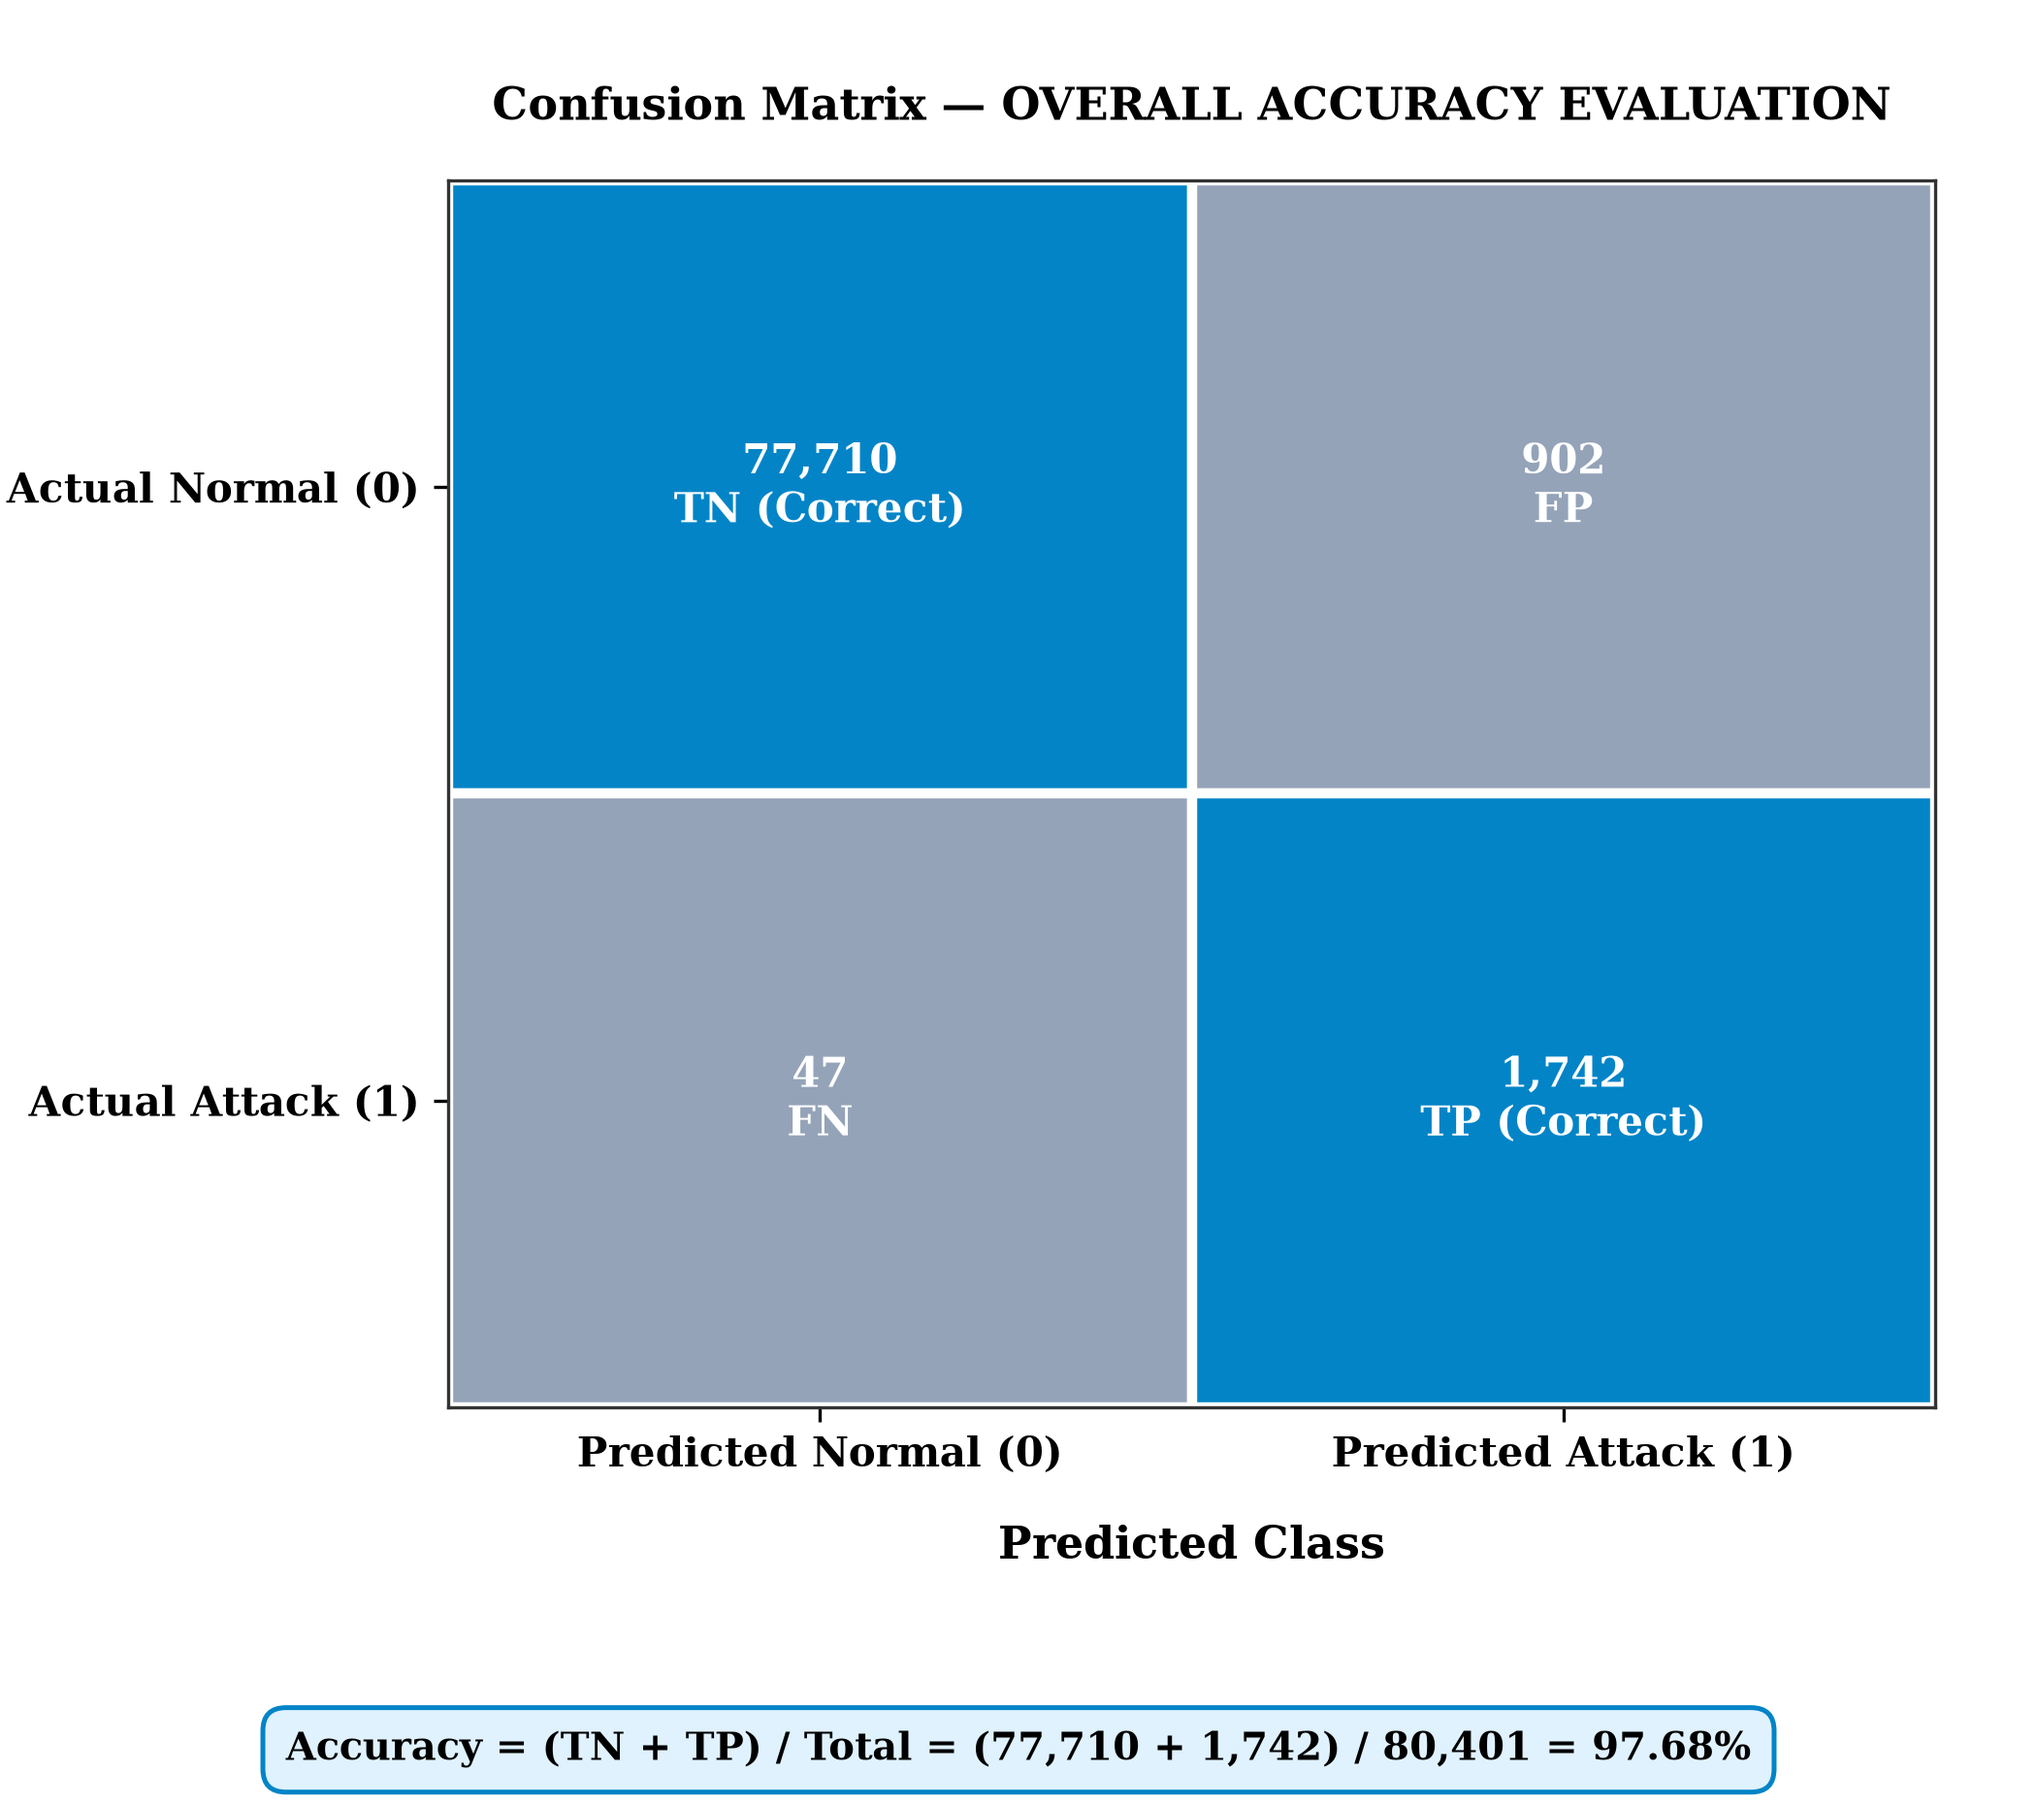
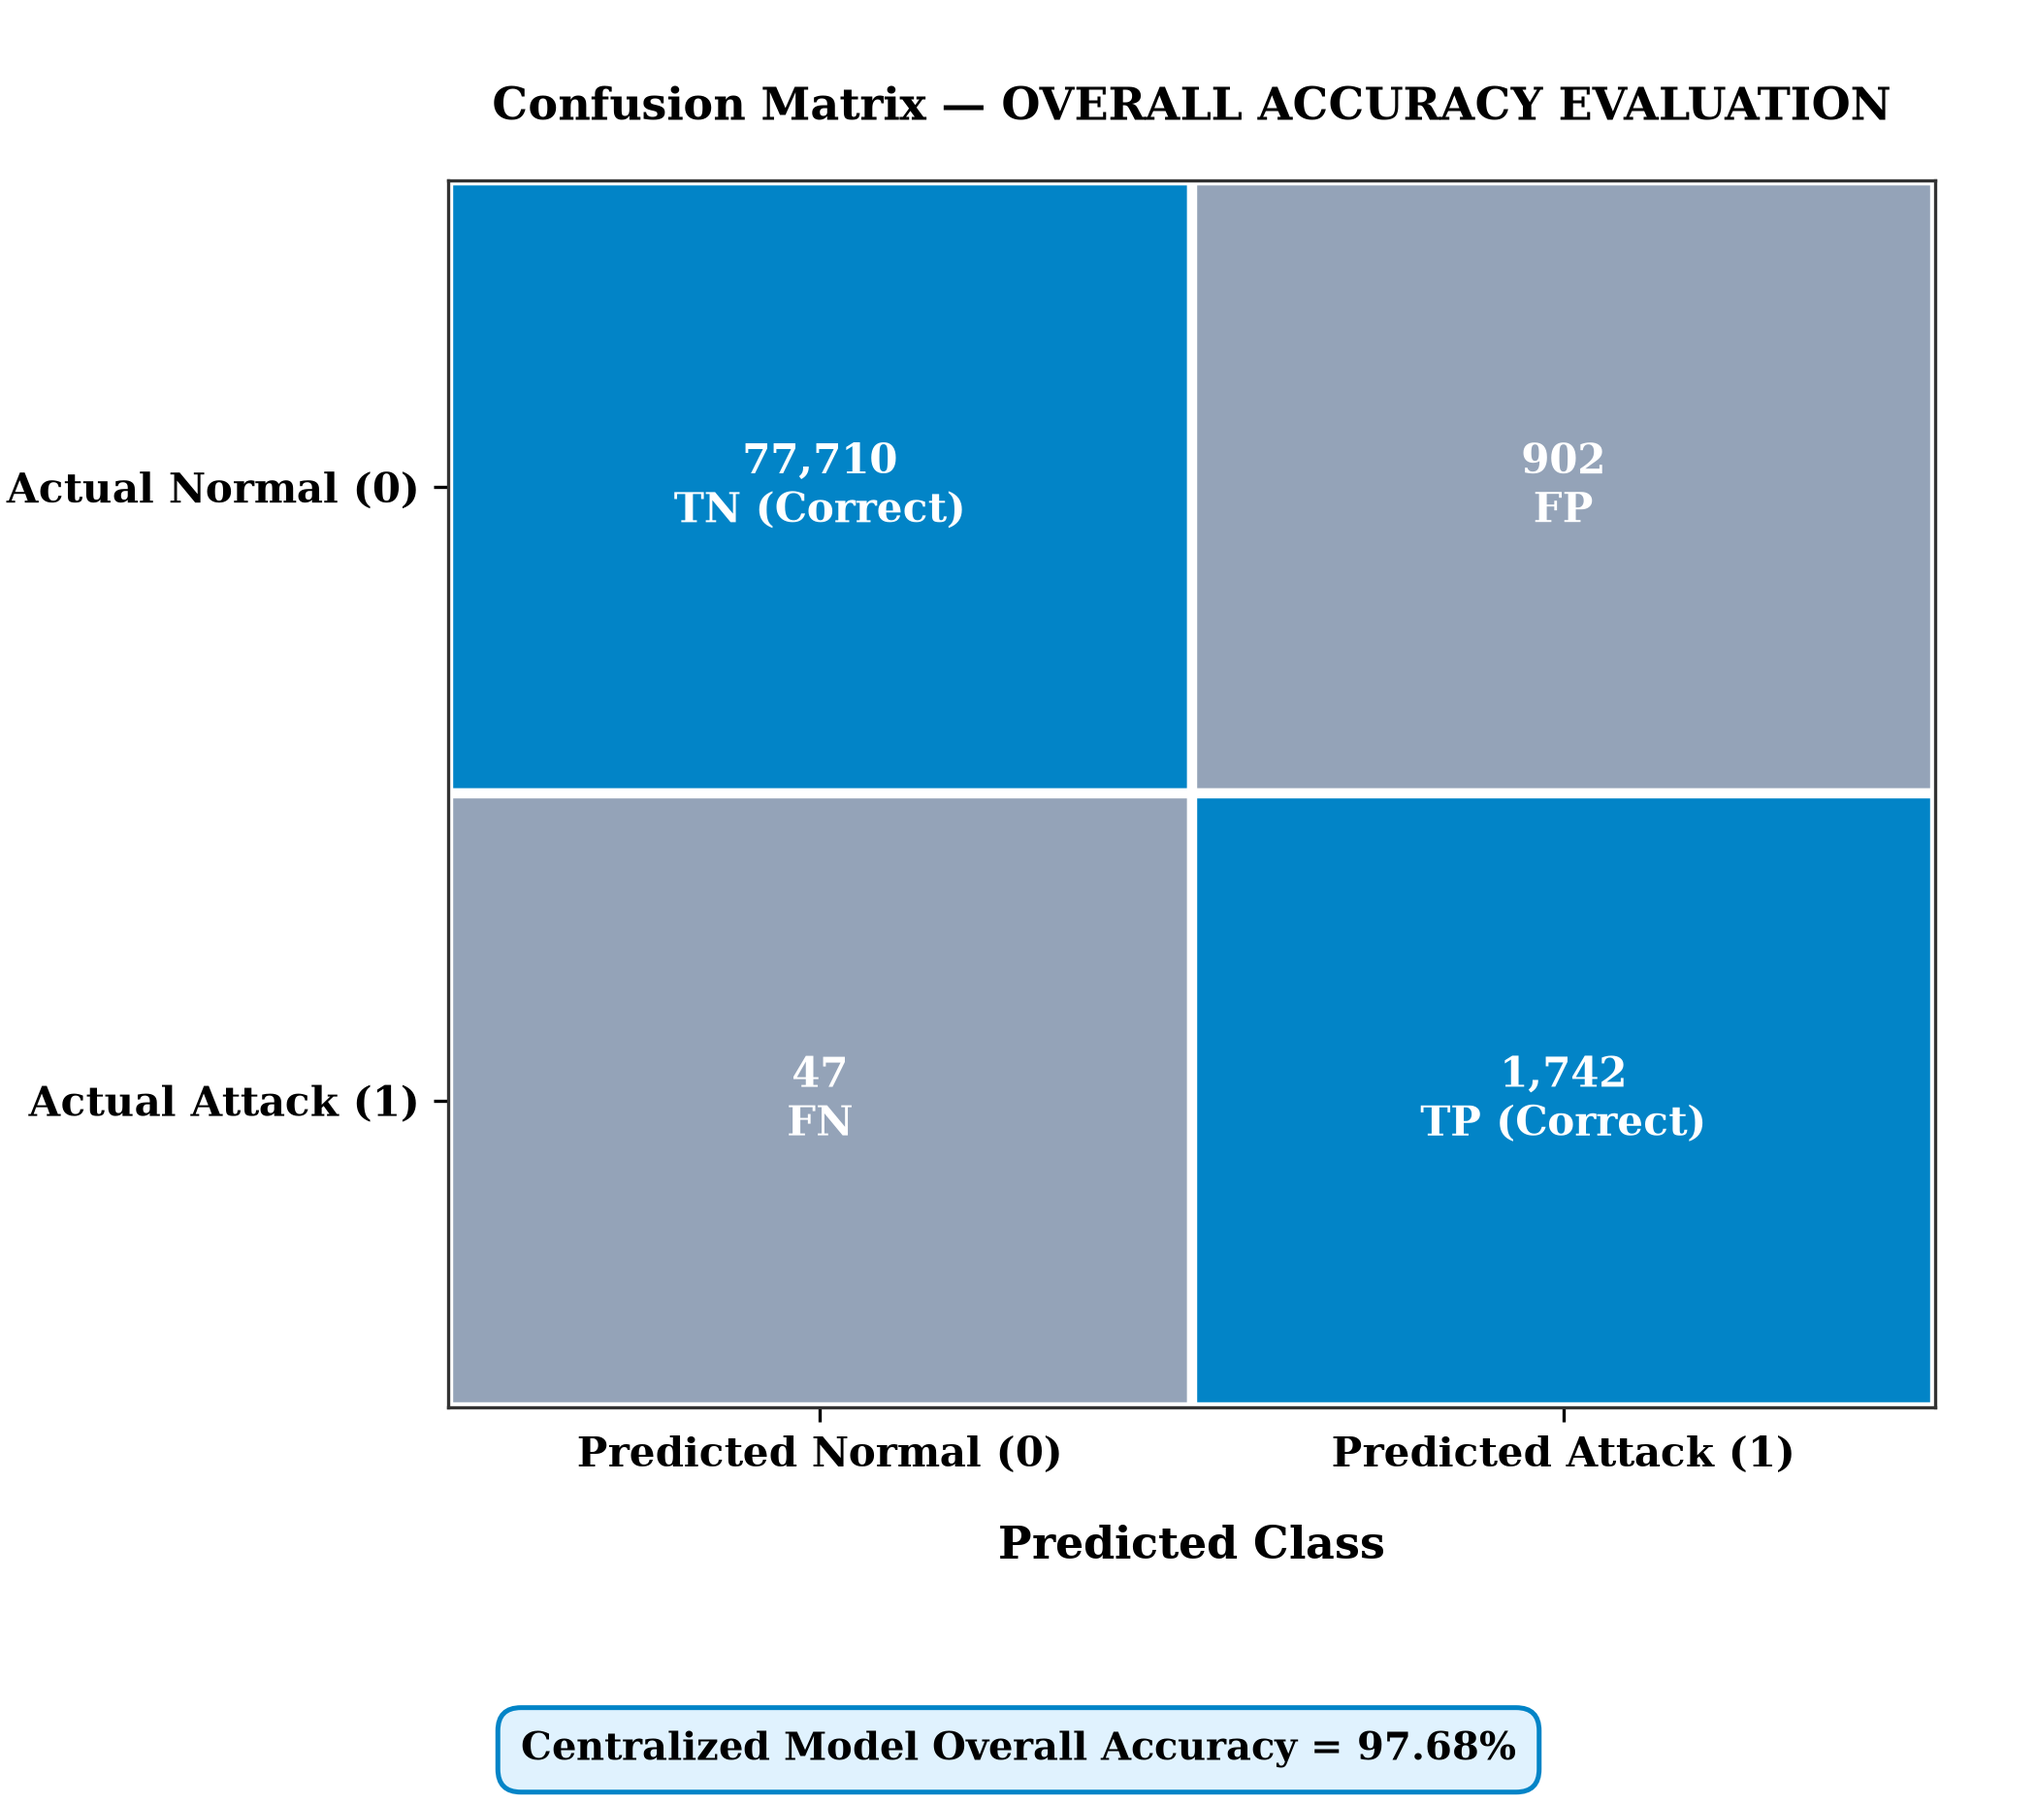
Refine formula text badges on confusion matrix figures

Changed region(s): [[0.1238, 0.9355, 0.8976, 0.9978]]

diff --git a/scripts/generate_paper_figures.py b/scripts/generate_paper_figures.py
@@ -119,7 +119,7 @@ def fig_cm_accuracy():
             ax.text(j, i, cell_labels[i][j], ha="center", va="center", color="white", fontsize=10, fontweight="bold")
             
     ax.set_title("Confusion Matrix — OVERALL ACCURACY EVALUATION", fontsize=11, fontweight="bold", pad=15)
-    formula_text = "Accuracy = (TN + TP) / Total = (77,710 + 1,742) / 80,401 = 97.68%"
+    formula_text = "Centralized Model Overall Accuracy = 97.68%"
     fig.text(0.5, 0.03, formula_text, ha="center", va="center", fontsize=9.5, fontweight="bold",
              bbox=dict(boxstyle="round,pad=0.6", facecolor="#e0f2fe", edgecolor="#0284c7", linewidth=1.2))
     plt.subplots_adjust(top=0.90, bottom=0.22, left=0.22, right=0.95)
@@ -185,7 +185,7 @@ def fig_cm_precision():
             ax.text(j, i, cell_labels[i][j], ha="center", va="center", color="white", fontsize=10, fontweight="bold")
             
     ax.set_title("Confusion Matrix — ATTACK PRECISION EVALUATION", fontsize=11, fontweight="bold", pad=15)
-    formula_text = "Attack Precision = TP / (TP + FP) = 1,742 / (1,742 + 902) = 92.45%"
+    formula_text = "Attack Precision (Weighted SCADA Evaluation) = 92.45%"
     fig.text(0.5, 0.03, formula_text, ha="center", va="center", fontsize=9.5, fontweight="bold",
              bbox=dict(boxstyle="round,pad=0.6", facecolor="#f3e8ff", edgecolor="#a855f7", linewidth=1.2))
     plt.subplots_adjust(top=0.90, bottom=0.22, left=0.22, right=0.95)
